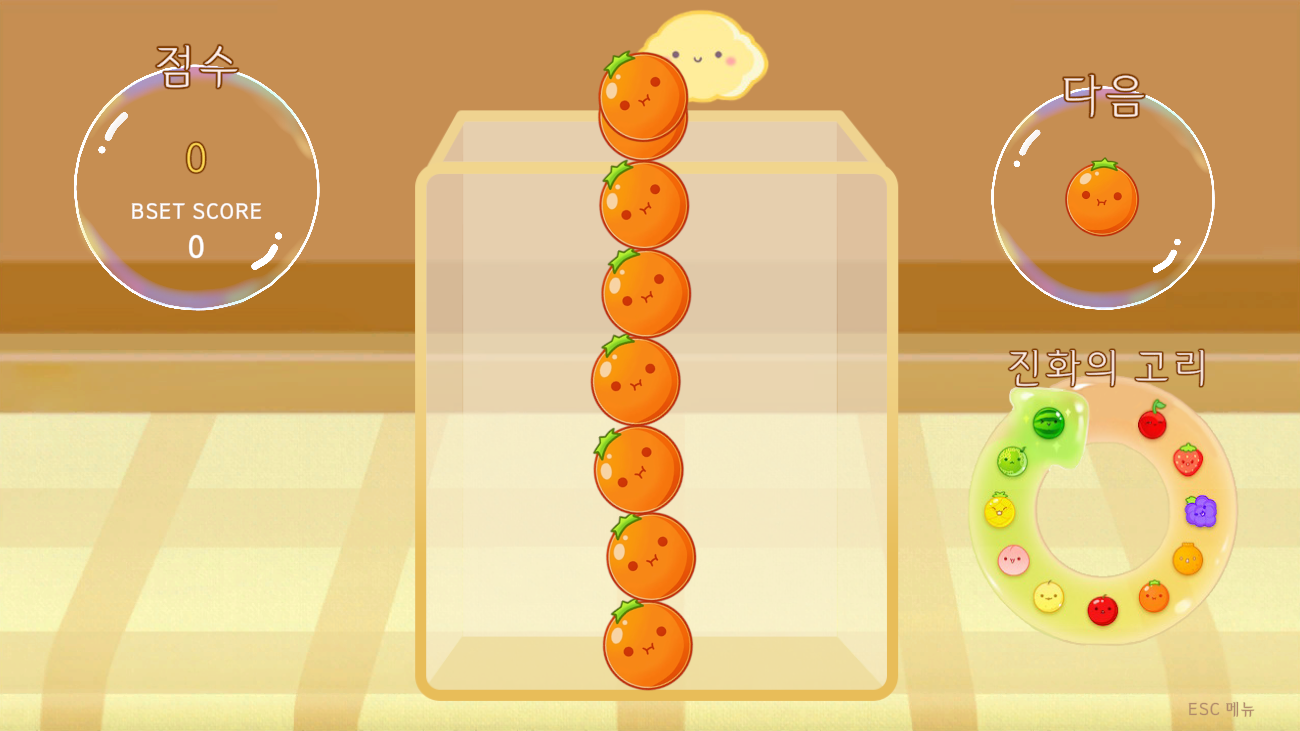
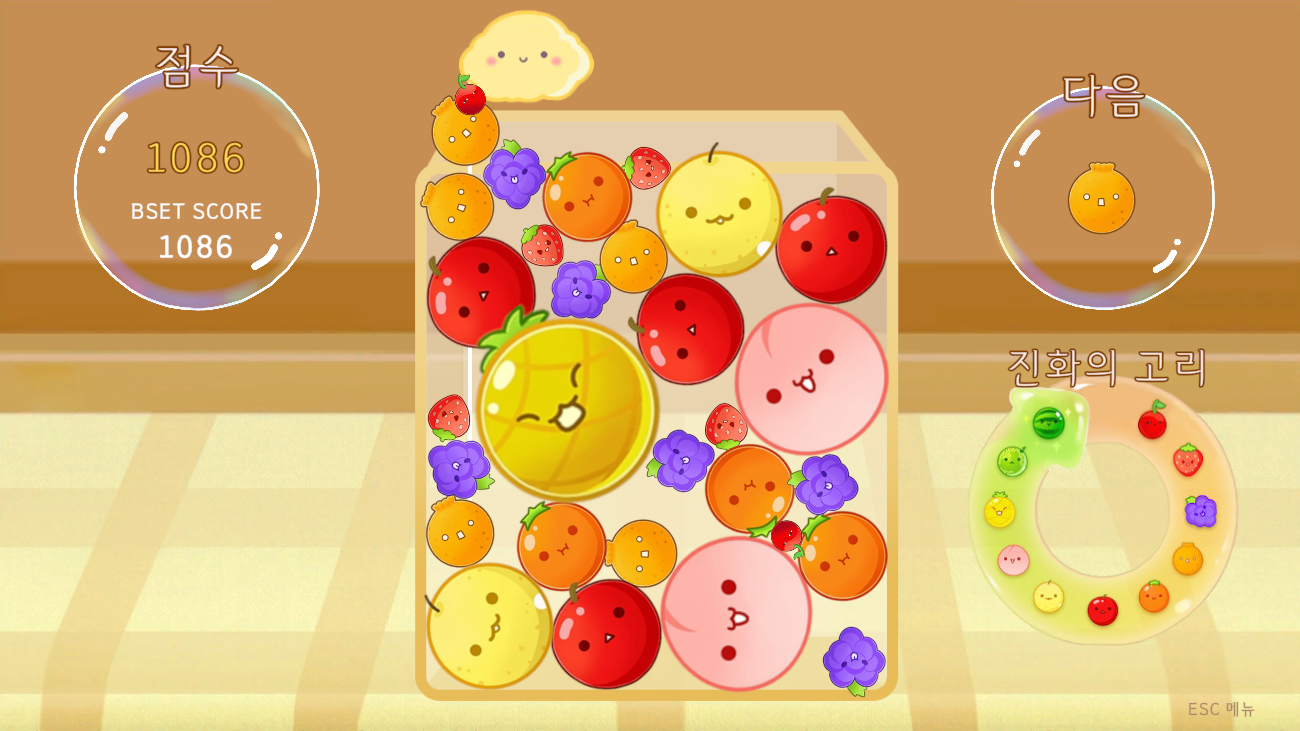
fix: 과일 세 개 이상 충돌 시 버그 수정

diff --git a/Assets/02.Script/Fruit.cs b/Assets/02.Script/Fruit.cs
@@ -29,20 +29,23 @@ public class Fruit : MonoBehaviour
                 fruitManager.CreateFruit();
             }
 
-            // if (other.transform.name == this.name)
-            // {
-            //     Vector2 thisPos = this.transform.position;
-            //     Vector2 otherPos = other.transform.position;
+            if (other.transform.name == this.name)
+            {
+                if (GetComponent<PolygonCollider2D>()) GetComponent<PolygonCollider2D>().enabled = false;
+                if (GetComponent<CircleCollider2D>()) GetComponent<CircleCollider2D>().enabled = false;
 
-            //     if (thisPos.y < otherPos.y || (thisPos.y == otherPos.y && thisPos.x < otherPos.x))
-            //     {
-            //         Vector2 collisionPoint = other.contacts[0].point;
-            //         int level = int.Parse(this.transform.name[6].ToString());
+                Vector2 thisPos = this.transform.position;
+                Vector2 otherPos = other.transform.position;
 
-            //         fruitManager.EvolutionFruit(collisionPoint, level);
-            //     }
-            //     Destroy(this.gameObject);
-            // }
+                if (thisPos.y < otherPos.y || (thisPos.y == otherPos.y && thisPos.x < otherPos.x))
+                {
+                    Vector2 collisionPoint = other.contacts[0].point;
+                    int level = int.Parse(this.transform.name[6].ToString());
+
+                    fruitManager.EvolutionFruit(collisionPoint, level);
+                }
+                Destroy(this.gameObject);
+            }
         }
     }
 
@@ -54,5 +57,13 @@ public class Fruit : MonoBehaviour
             fruitManager.DeactivateComponent();
             StartCoroutine(GameManager.Instance.GameOver());
         }
+    }
+
+    public IEnumerator SetCollider()
+    {
+        yield return new WaitForEndOfFrame();
+
+        if (GetComponent<PolygonCollider2D>()) GetComponent<PolygonCollider2D>().enabled = true;
+        if (GetComponent<CircleCollider2D>()) GetComponent<CircleCollider2D>().enabled = true;
     }
 }

diff --git a/Assets/02.Script/FruitManager.cs b/Assets/02.Script/FruitManager.cs
@@ -59,8 +59,7 @@ public class FruitManager : MonoBehaviour
             fruit.GetComponent<Rigidbody2D>().isKinematic = false;
             fruit.GetComponent<Fruit>().isDropped = true;
 
-            if (fruit.GetComponent<PolygonCollider2D>()) fruit.GetComponent<PolygonCollider2D>().enabled = true;
-            if (fruit.GetComponent<CircleCollider2D>()) fruit.GetComponent<CircleCollider2D>().enabled = true;
+            StartCoroutine(fruit.GetComponent<Fruit>().SetCollider());
         }
     }
 
